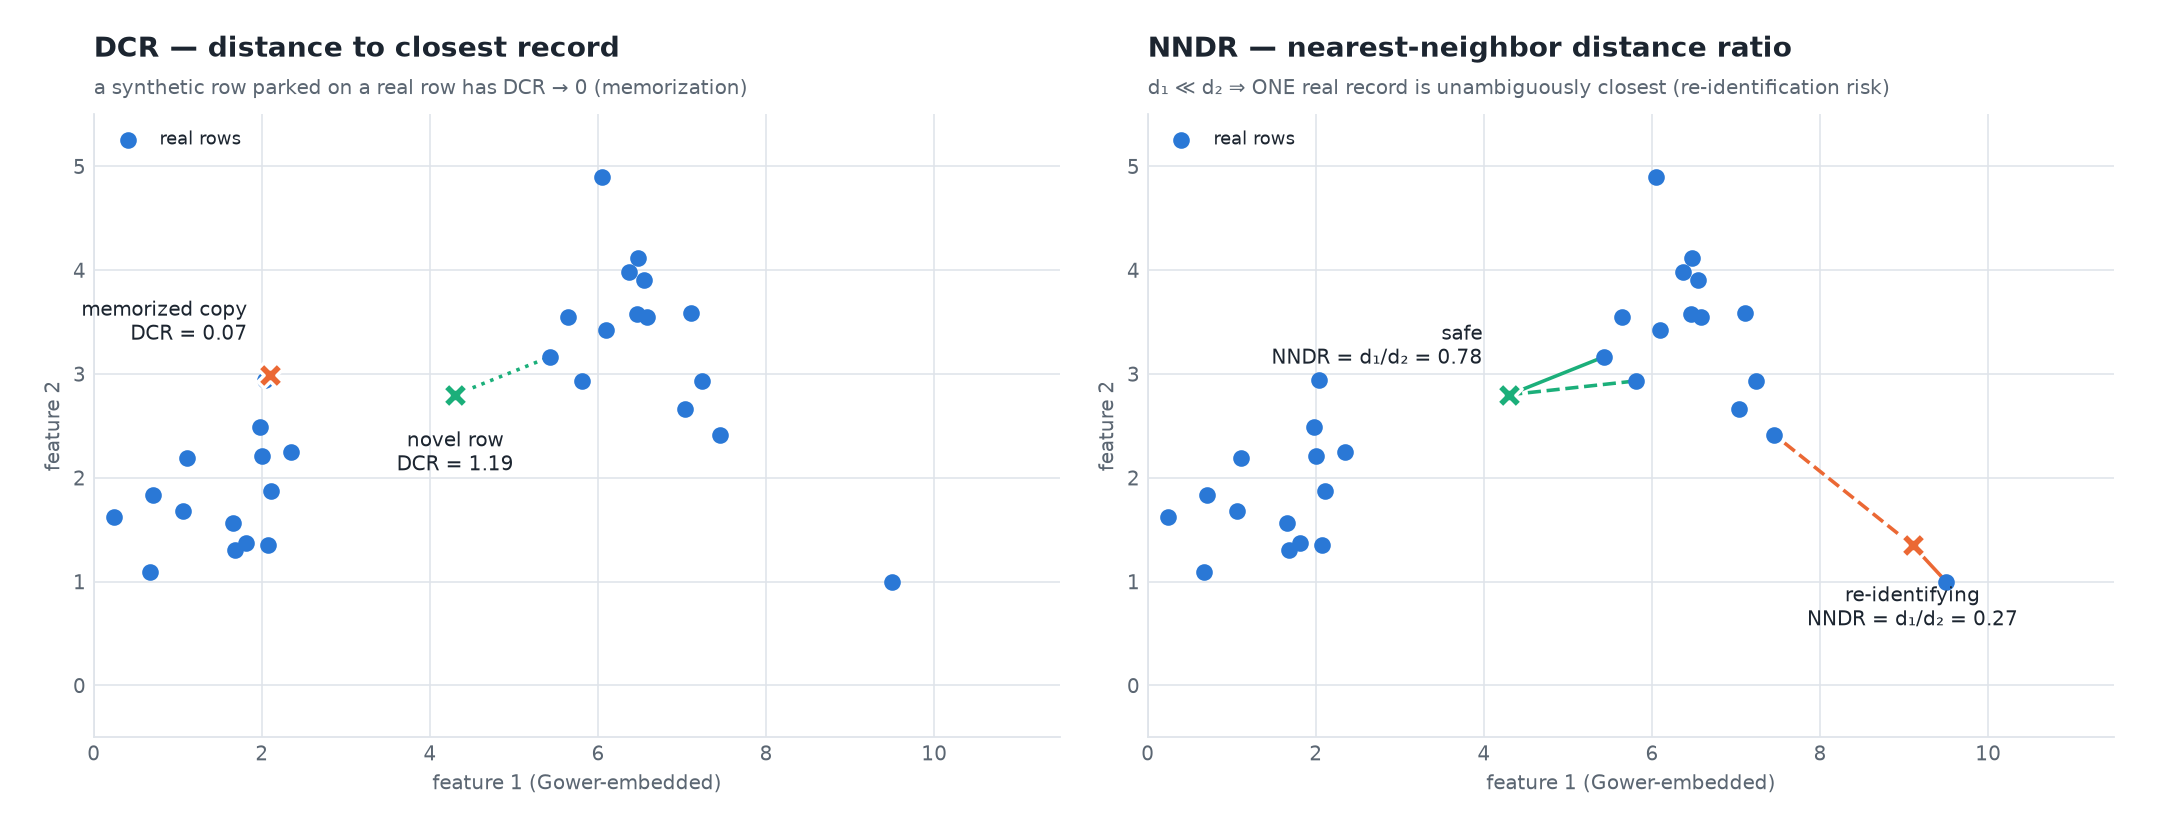
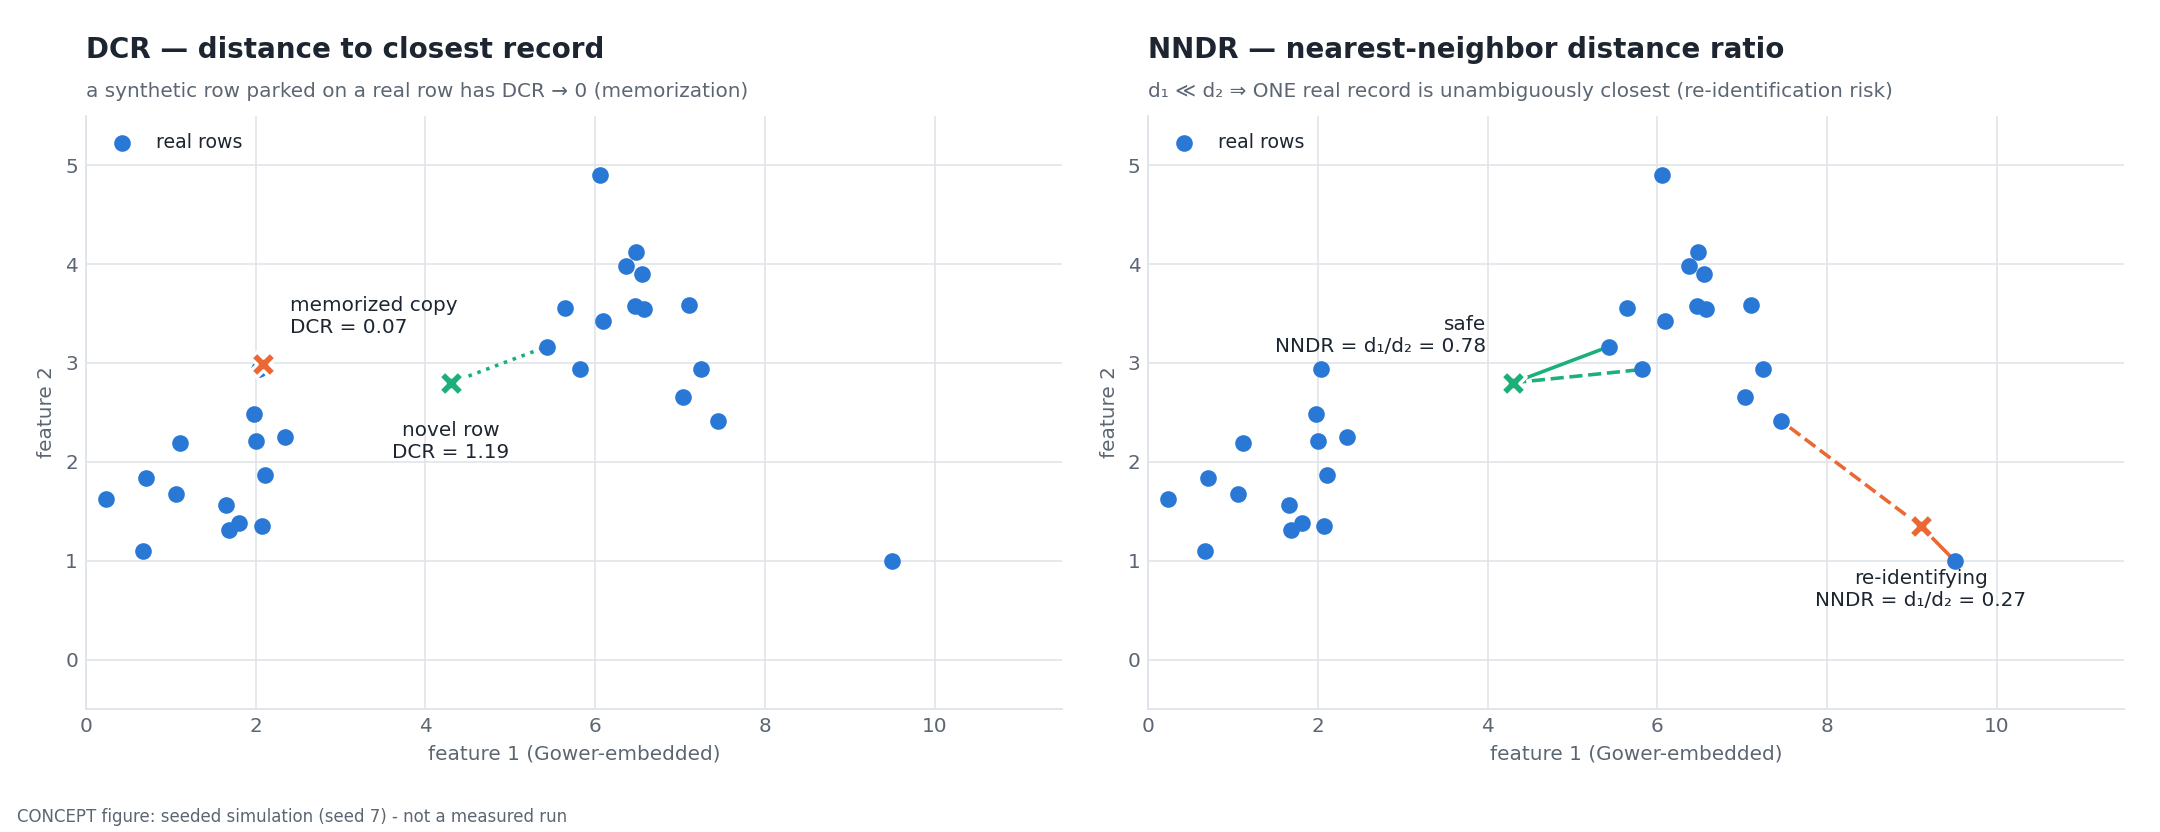
wip(gui): INTRO quotes DESIGN.md section 11 and ADR 0041; the repo figures re-synced; the flagged-row hash shown whole
Claude-Session: https://claude.ai/code/session_01D5vzNpuxKgwDcYgvP3c9wh

diff --git a/gui/apps/web/src/features/intro/content/designSections.ts b/gui/apps/web/src/features/intro/content/designSections.ts
@@ -3,10 +3,9 @@
  *
  * Every quote is copied, not written: a section's bold **Claim** sentence, or,
  * where a section has none (§8, §9, §10), its lead sentence labelled "Lead".
- * Captions are the italic figure captions of DESIGN.md. §11 does not exist on
- * this branch yet — it lands with the evaluation package (ADR 0041) — so its
- * card is marked pending and quotes the package README instead.
- * `content.test.ts` checks each quote and caption against its source file.
+ * Captions are the italic figure captions of DESIGN.md. `content.test.ts`
+ * checks each quote and caption against its source file, and that every
+ * DESIGN.md section has its card.
  */
 import { repoBlobUrl } from "@/lib/links";
 
@@ -44,8 +43,6 @@ export type DesignSection = {
   title: string;
   /** GitHub's anchor for the heading. */
   anchor: string;
-  /** "pending": the section is not in DESIGN.md on this branch yet. */
-  status: "published" | "pending";
   quote: Quote;
   /** Further claims of the same section (shown in the detail view). */
   more?: Quote[];
@@ -84,7 +81,6 @@ export const DESIGN_SECTIONS: readonly DesignSection[] = [
     number: 1,
     title: "Architecture and the CPU/GPU split",
     anchor: "1-architecture-and-the-cpugpu-split",
-    status: "published",
     quote: {
       kind: "claim",
       text: "one Dataflow job reads a bounded sample, touches the GPU a bounded number of times, and writes validated rows; nothing leaves the project.",
@@ -96,7 +92,6 @@ export const DESIGN_SECTIONS: readonly DesignSection[] = [
     number: 2,
     title: "Engines and the LLM as a distribution estimator",
     anchor: "2-engines-and-the-llm-as-a-distribution-estimator",
-    status: "published",
     quote: {
       kind: "claim",
       text: "the LLM is asked what values a column can take, once, and rows are then sampled without it.",
@@ -113,7 +108,6 @@ export const DESIGN_SECTIONS: readonly DesignSection[] = [
     number: 3,
     title: "Serving: a vLLM server owned by the engine",
     anchor: "3-serving-a-vllm-server-owned-by-the-engine",
-    status: "published",
     quote: {
       kind: "claim",
       text: "each worker runs one vLLM OpenAI-compatible server, started by the first model call and sized to the GPU it finds",
@@ -140,7 +134,6 @@ export const DESIGN_SECTIONS: readonly DesignSection[] = [
     number: 4,
     title: "Relational generation",
     anchor: "4-relational-generation",
-    status: "published",
     quote: {
       kind: "claim",
       text: "a child table is generated from its parent's landed keys, so the parent/child ratio, the child's key uniqueness and referential integrity hold by construction rather than by rejection.",
@@ -162,7 +155,6 @@ export const DESIGN_SECTIONS: readonly DesignSection[] = [
     number: 5,
     title: "Fidelity, value pools and constraints",
     anchor: "5-fidelity-value-pools-and-constraints",
-    status: "published",
     quote: {
       kind: "claim",
       text: "numeric and temporal values are drawn where the source is dense, not uniformly across its range.",
@@ -183,7 +175,6 @@ export const DESIGN_SECTIONS: readonly DesignSection[] = [
     number: 6,
     title: "Throughput",
     anchor: "6-throughput",
-    status: "published",
     quote: {
       kind: "claim",
       text: "with the model called a bounded number of times, the job's time is CPU generation and shuffle, not the GPU.",
@@ -205,7 +196,6 @@ export const DESIGN_SECTIONS: readonly DesignSection[] = [
     number: 7,
     title: "Validation and the dead-letter queue",
     anchor: "7-validation-and-the-dead-letter-queue",
-    status: "published",
     quote: {
       kind: "claim",
       text: "no row is dropped silently; every rejection is queryable with its reason, and the audit row lands even when the run fails.",
@@ -225,7 +215,6 @@ export const DESIGN_SECTIONS: readonly DesignSection[] = [
     number: 8,
     title: "Configuration",
     anchor: "8-configuration",
-    status: "published",
     quote: {
       kind: "lead",
       text: "Relational structure is configuration, in `config/relationships/*.yaml` (ADR 0032).",
@@ -247,7 +236,6 @@ export const DESIGN_SECTIONS: readonly DesignSection[] = [
     number: 9,
     title: "ADR reference map",
     anchor: "9-adr-reference-map",
-    status: "published",
     quote: { kind: "lead", text: "Decision records live in the source repository.", source: "DESIGN.md" },
     visual: { kind: "adr-map" },
   },
@@ -255,7 +243,6 @@ export const DESIGN_SECTIONS: readonly DesignSection[] = [
     number: 10,
     title: "Figure provenance",
     anchor: "10-figure-provenance",
-    status: "published",
     quote: {
       kind: "lead",
       text: "Every figure is generated by a committed script and is shared with the design document that owns it; none was drawn for this page, and this page types no measured number of its own.",
@@ -267,16 +254,16 @@ export const DESIGN_SECTIONS: readonly DesignSection[] = [
     number: 11,
     title: "Evaluation (sdfb-evaluation)",
     anchor: "11-evaluation-sdfb-evaluation",
-    status: "pending",
     quote: {
-      kind: "lead",
-      text: "Standalone statistical evaluation of synthetic BigQuery tables against their live source: fidelity, privacy, and utility, computed with Apache Beam and written to BigQuery (`synthetic_data_quality.*`).",
-      source: "packages/sdfb-evaluation/README.md",
+      kind: "claim",
+      text: "evaluation is a separate CPU job, after generation, that scores each unit of the synthetic data against the full source and says whether the distance is more than sampling noise; it never gates or fails the generation run.",
+      source: "DESIGN.md",
     },
     visual: {
       kind: "image",
-      file: "eval-ks-vs-wasserstein.png",
-      alt: "KS vs Wasserstein: same W1, 5x different KS",
+      file: "eval-noise-floor.png",
+      alt: "The same KS value is noise at 1,000 rows and an effect at a million",
+      caption: "Concept figure, a seeded simulation, not a measurement of a run.",
     },
     explore: { label: "Open the evaluations", target: { tab: "evaluation" } },
   },
@@ -284,7 +271,6 @@ export const DESIGN_SECTIONS: readonly DesignSection[] = [
     number: 12,
     title: "Platform GUI",
     anchor: "12-platform-gui",
-    status: "published",
     quote: {
       kind: "claim",
       text: "a self-hosted app reads this project's BigQuery tables through named, read-only, bytes-capped queries; it writes nothing, and the pipeline does not depend on it.",

diff --git a/gui/apps/web/src/features/intro/components/HowItWorks.tsx b/gui/apps/web/src/features/intro/components/HowItWorks.tsx
@@ -9,7 +9,6 @@ import { useState, type ReactNode } from "react";
 
 import { InfoHint } from "@/components/InfoHint";
 import { Mermaid } from "@/components/Mermaid";
-import { StatusPill } from "@/components/StatusPill";
 import {
   Dialog,
   DialogContent,
@@ -64,23 +63,16 @@ export function HowItWorks() {
 
 function DesignCard({ section }: { section: DesignSection }) {
   const headingId = `design-s${section.number}`;
-  const pending = section.status === "pending";
-  const adrs = pending ? [] : adrsForSection(section.number);
+  const adrs = adrsForSection(section.number);
   return (
     <article
       aria-labelledby={headingId}
       data-section={section.number}
-      className={cn(
-        "flex h-full flex-col overflow-hidden rounded-lg border bg-surface-1",
-        pending ? "border-dashed border-border-strong" : "border-border",
-      )}
+      className="flex h-full flex-col overflow-hidden rounded-lg border border-border bg-surface-1"
     >
       <SectionVisualSlot section={section} />
       <div className="flex flex-1 flex-col gap-3 p-5">
-        <div className="flex items-center justify-between gap-2">
-          <span className="font-mono text-xs font-semibold text-accent-text">§{section.number}</span>
-          {pending ? <StatusPill status="pending" tone="neutral" label="Not in DESIGN.md yet" size="sm" /> : null}
-        </div>
+        <span className="font-mono text-xs font-semibold text-accent-text">§{section.number}</span>
         <h3 id={headingId} className="-mt-1 text-base leading-snug font-semibold text-text-1">
           {section.title}
         </h3>
@@ -96,19 +88,13 @@ function DesignCard({ section }: { section: DesignSection }) {
             <InlineCode text={section.quote.text} />
           </p>
         </blockquote>
-        {pending ? (
-          <p className="text-xs text-text-3">
-            §11 lands with the evaluation package and its ADR 0041; until then this card quotes the package README.
-          </p>
-        ) : null}
         {adrs.length ? <AdrChips numbers={adrs.map((a) => a.number)} /> : null}
-        {pending ? <AdrChips numbers={["0041"]} /> : null}
         <div className="mt-auto flex flex-wrap items-center gap-x-4 gap-y-2 border-t border-border pt-3 text-sm">
-          {pending ? (
-            <ExternalAnchor href={quoteSourceUrl(section.quote, section)}>Read the package README</ExternalAnchor>
-          ) : (
-            <ExternalAnchor href={designUrl(section.anchor)}>Read §{section.number} in DESIGN.md</ExternalAnchor>
-          )}
+          <ExternalAnchor href={quoteSourceUrl(section.quote, section)}>
+            {section.quote.source === "DESIGN.md"
+              ? `Read §${section.number} in DESIGN.md`
+              : `Read ${section.quote.source}`}
+          </ExternalAnchor>
           {section.explore ? (
             <TargetLink
               to={section.explore.target}

diff --git a/gui/packages/contracts/src/concepts/evaluation.ts b/gui/packages/contracts/src/concepts/evaluation.ts
@@ -34,7 +34,7 @@ export const concepts = defineConcepts([
     id: "eval:scope",
     title: "Evaluation scope",
     purpose:
-      "Which synthetic rows belong to this launch. Landing rows carry no run id, so the evaluator recovers them from the write disposition and the job's own commit window: the whole landing table (table), a snapshot at the window end (as_of), the rows appended in the window (appends), the table at the window end minus a snapshot of its start when copy jobs landed the rows (as_of_diff), or the table as it is now (manual). The scope check says whether that slice is clean.",
+      "Which synthetic rows belong to this launch: landing rows carry no run id, so the evaluator recovers them from the write disposition and the job's own commit window — the whole landing table (table), a snapshot at the window end (as_of), the rows appended in the window (appends), the table at the window end minus a snapshot of its start when copy jobs landed the rows (as_of_diff), or the table as it is now (manual). The scope check says whether that slice is clean.",
     interpretation: {
       good: "Scope OK: the rows in scope are exactly this launch's rows.",
       bad: "Contaminated (another run's rows share the table), count mismatch (rows ≠ rows expected), expired (the snapshot aged out) or empty: the numbers describe a different slice than the launch.",
@@ -368,7 +368,7 @@ export const concepts = defineConcepts([
     id: "eval:fanout",
     title: "Fan-out",
     purpose:
-      "Children per parent along a foreign key: how many orders each user has. The evaluator compares the source and synthetic distributions (every parent at or above the cap in one last bin) and stores the distances: the fan-out TVD and W1, the mean ratio, the childless-parent share and the parent coverage. It publishes no fan-out histogram.",
+      "Children per parent along a foreign key: how many orders each user has. The evaluator compares the source and synthetic distributions and stores the distances (fan-out TVD and W1, the mean ratio, the childless-parent share, the parent coverage), not the histograms.",
     interpretation: {
       good: "Fan-out TVD within its noise floor, mean ratio near 1, childless-parent share unchanged.",
       bad: "A childless-parent share that drops to 0: every synthetic parent got a child the source's parents often lack.",

diff --git a/gui/apps/web/src/features/intro/content/content.test.ts b/gui/apps/web/src/features/intro/content/content.test.ts
@@ -1,7 +1,7 @@
 /**
  * The INTRO copy is copied, not written: every quote, caption and ADR title
  * must still be in the repository file it came from. When DESIGN.md changes
- * (a claim reworded, §11 landing), this suite fails and names the card.
+ * (a claim reworded, a section added), this suite fails and names the card.
  */
 import { existsSync, readFileSync } from "node:fs";
 import { dirname, join } from "node:path";
@@ -70,11 +70,10 @@ describe("How it works cards", () => {
     for (const heading of headings) {
       const card = DESIGN_SECTIONS.find((section) => section.number === heading.n);
       expect(card, `§${heading.n} "${heading.title}" has no card`).toBeDefined();
-      expect(card?.status, `§${heading.n} landed in DESIGN.md: quote its Claim and drop "pending"`).toBe("published");
       expect(card?.title).toBe(heading.title);
       expect(card?.anchor).toBe(slug(`${heading.n}. ${heading.title}`));
     }
-    for (const card of DESIGN_SECTIONS.filter((c) => c.status === "published")) {
+    for (const card of DESIGN_SECTIONS) {
       expect(
         headings.some((h) => h.n === card.number),
         `§${card.number} is not in DESIGN.md`,

diff --git a/gui/apps/web/src/features/evaluation/panels/PrivacyPanel.tsx b/gui/apps/web/src/features/evaluation/panels/PrivacyPanel.tsx
@@ -290,7 +290,10 @@ function FlaggedRows({ flags, table }: { flags: RowFlag[]; table?: string }) {
                     <TableCell className="text-right text-xs tabular-nums">{f.rank}</TableCell>
                     <TableCell className="font-mono text-xs">{f.table_name}</TableCell>
                     <TableCell className="font-mono text-xs whitespace-nowrap">{keyText(f.synthetic_key)}</TableCell>
-                    <TableCell className="font-mono text-xs text-text-2" title="keyed hash of the matched source record">
+                    <TableCell
+                      className="font-mono text-xs text-text-2"
+                      title="keyed hash of the matched source record"
+                    >
                       {f.source_key_hash ?? MISSING}
                     </TableCell>
                     <TableCell className="text-xs">{f.source_set ?? MISSING}</TableCell>

diff --git a/gui/apps/web/src/features/evaluation/run-view.test.tsx b/gui/apps/web/src/features/evaluation/run-view.test.tsx
@@ -250,8 +250,8 @@ describe("the run view", () => {
     expect(within(lifts).getByText(/undefined · ci_low 0 · open above · m_R\/m_H 0\/0/)).toBeInTheDocument();
     expect(within(lifts).getByText(/not evaluated — reference not verified/)).toBeInTheDocument();
     const flags = screen.getAllByRole("region", { name: /^Flagged rows/ }).at(-1)!;
-    expect(within(flags).getAllByText("0123456789ab…")).toHaveLength(2);
-    expect(within(flags).queryByText("0123456789abcdef0123456789abcdef")).toBeNull();
+    // The evaluator's keyed-hash label, whole: `h:` and eight hex digits.
+    expect(within(flags).getAllByText("h:0123abcd")).toHaveLength(2);
   });
 
   it("shows documented edges as INFO next to the source orphan rate", async () => {

diff --git a/gui/apps/web/src/features/intro/content/stages.ts b/gui/apps/web/src/features/intro/content/stages.ts
@@ -215,7 +215,7 @@ export const STAGES: readonly Stage[] = [
     phase: "evaluate",
     summary: "A separate job measures what landed against the live source.",
     quote: {
-      text: "Standalone statistical evaluation of synthetic BigQuery tables against their live source: fidelity, privacy, and utility, computed with Apache Beam and written to BigQuery (`synthetic_data_quality.*`).",
+      text: "Standalone statistical evaluation of synthetic BigQuery tables against their live source: fidelity, privacy, integrity, and diversity, computed with Apache Beam and written to BigQuery (`synthetic_data_quality.*`).",
       source: "packages/sdfb-evaluation/README.md",
     },
     concept: "intro:evaluation-job",

diff --git a/gui/packages/mock/src/evaluate.ts b/gui/packages/mock/src/evaluate.ts
@@ -233,7 +233,8 @@ export class TableEvaluator {
       n_source: reading.nSource === undefined ? this.ctx.nSource : reading.nSource,
       n_synthetic: reading.nSynthetic === undefined ? this.ctx.nSynthetic : reading.nSynthetic,
       method:
-        reading.method ?? (rowSample ? "sample" : (catalogue.estimator.split("/")[0] as EvaluationMetricsRow["method"])),
+        reading.method ??
+        (rowSample ? "sample" : (catalogue.estimator.split("/")[0] as EvaluationMetricsRow["method"])),
       sample_rate: reading.sampleRate === undefined ? this.ctx.sampleRate : reading.sampleRate,
       encoding_plan_digest: this.ctx.encodingPlanDigest,
       feature_set_digest: reading.featureSetDigest ?? null,

diff --git a/gui/e2e/intro.spec.ts b/gui/e2e/intro.spec.ts
@@ -126,7 +126,9 @@ test("How it works quotes DESIGN.md with figures that load and carry provenance"
   await expect(cards.first()).toContainText(
     "one Dataflow job reads a bounded sample, touches the GPU a bounded number of times, and writes validated rows; nothing leaves the project.",
   );
-  await expect(page.locator("article[data-section='11']")).toContainText("Not in DESIGN.md yet");
+  await expect(page.locator("article[data-section='11']")).toContainText(
+    "evaluation is a separate CPU job, after generation, that scores each unit of the synthetic data against the full source",
+  );
 
   await renderEverything(page);
   const images = page.locator("#how-it-works img");

diff --git a/gui/packages/stats/src/scoring.ts b/gui/packages/stats/src/scoring.ts
@@ -268,8 +268,7 @@ export function assess(metric: ScoringMetric, reading: MetricReading, options: S
       ...base,
     };
   const copyInfo = metric.id === COPY_RATE_ID ? copyRateInfoReason(reading.columnKind) : null;
-  if (copyInfo !== null)
-    return { status: "info", notes: { reason: copyInfo }, scoreAt: null, target: null, ...base };
+  if (copyInfo !== null) return { status: "info", notes: { reason: copyInfo }, scoreAt: null, target: null, ...base };
   const { warn, fail } = metric.thresholds;
   if (warn === null && fail === null) return { status: "info", notes: null, scoreAt: null, target: null, ...base };
   let target: number | null = null;

diff --git a/gui/apps/web/src/features/evaluation/RunPage.tsx b/gui/apps/web/src/features/evaluation/RunPage.tsx
@@ -388,9 +388,7 @@ function RunPageContent() {
           ) : null}
         </TabsContent>
         <TabsContent value="relational">
-          {tab === "relational" ? (
-            <RelationalPanel graph={derived.graph} table={table} />
-          ) : null}
+          {tab === "relational" ? <RelationalPanel graph={derived.graph} table={table} /> : null}
         </TabsContent>
         <TabsContent value="params">{tab === "params" ? <ParamsPanel evaluation={evaluation} /> : null}</TabsContent>
       </Tabs>

diff --git a/gui/apps/web/src/features/intro/content/adrs.ts b/gui/apps/web/src/features/intro/content/adrs.ts
@@ -208,6 +208,12 @@ export const ADRS: readonly AdrRef[] = [
     file: "0040-dsg-donation-golden-source-sync.md",
   },
   {
+    number: "0041",
+    section: 11,
+    title: "Evaluation is a standalone package and a separate job",
+    file: "0041-evaluation-standalone-package.md",
+  },
+  {
     number: "0042",
     section: 12,
     title: "A self-hosted GUI; managed dashboards stay out",
